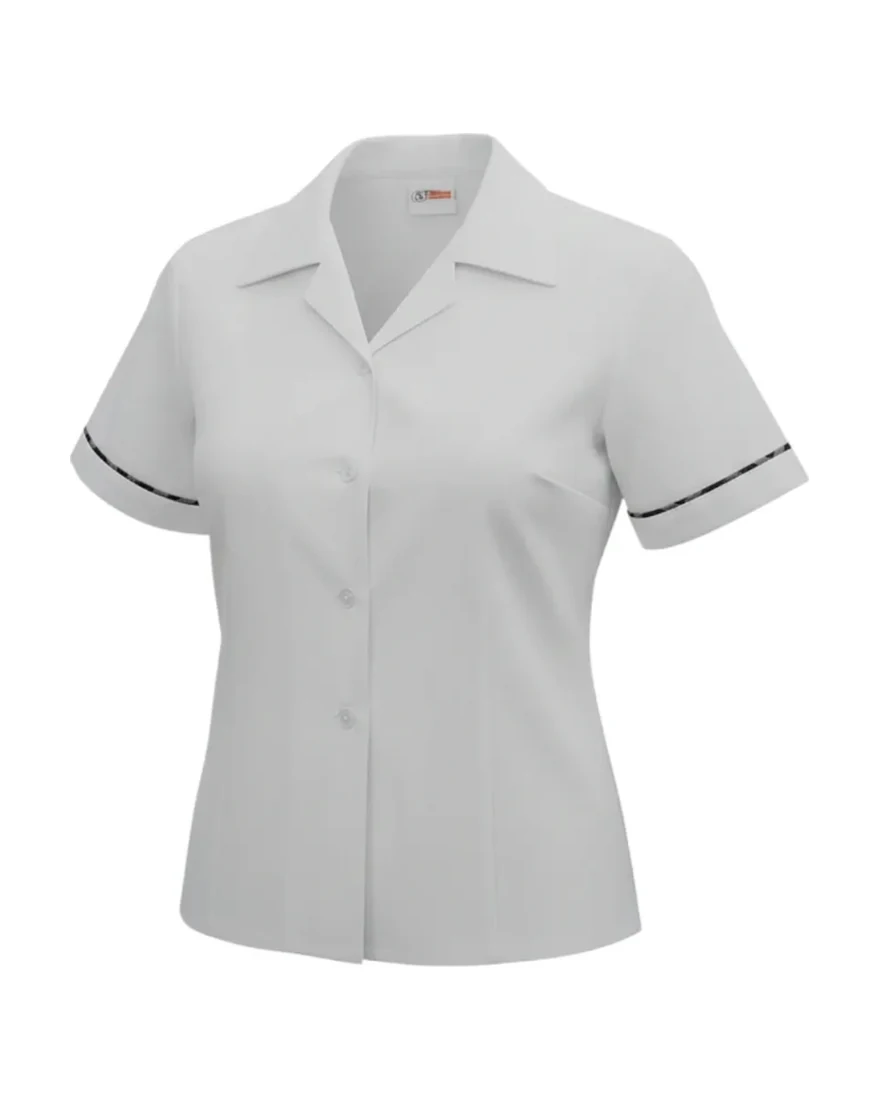
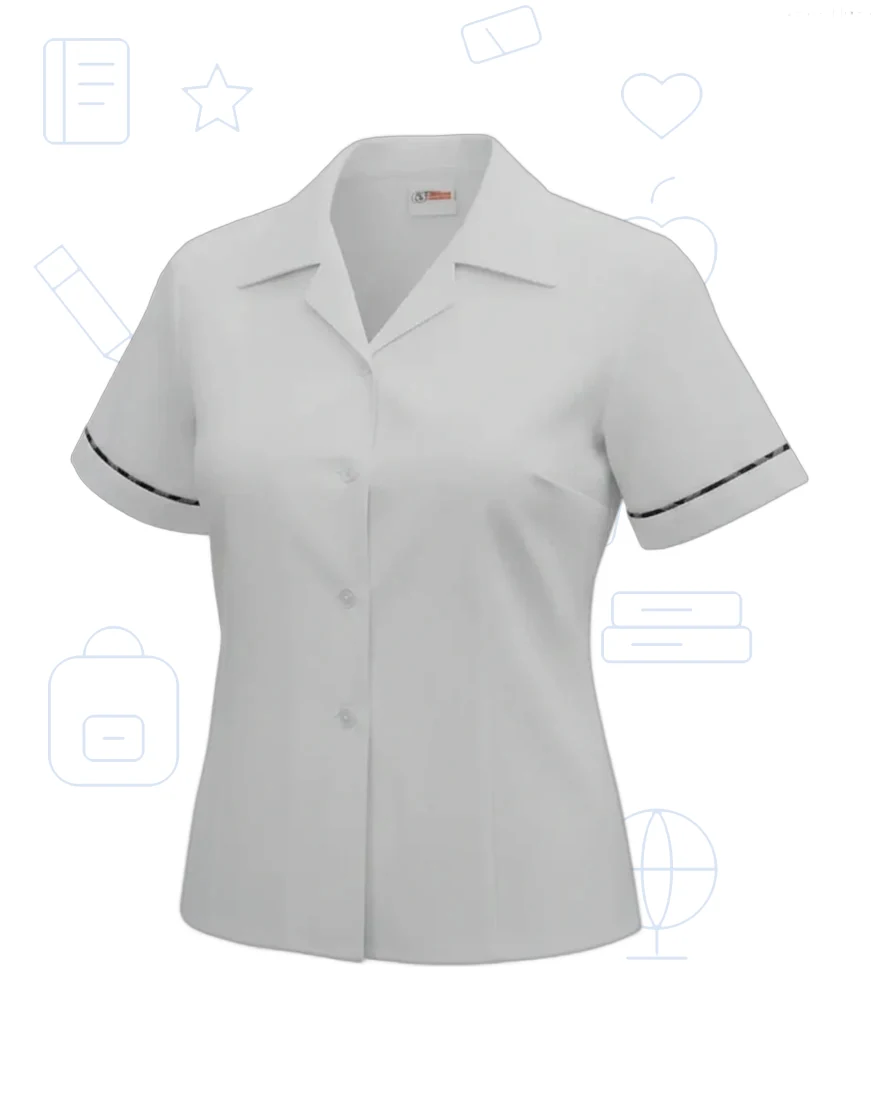
feat(fotos): mismo fondo de garabatos en las 8 fichas
La jardinera, la guayabera y el pantalon traian impreso el fondo de garabatos
escolares; las otras cinco eran blanco liso. En el grid se notaba: la blusa
quedaba como la unica blanca en una fila de tres con garabatos.

Ahora las cinco que faltaban (camibuso, las dos sudaderas, camisa de educacion
fisica y blusa) llevan el mismo fondo, recortando la prenda y componiendola
sobre el arte que el sitio ya usa en el hero y el pie
(src/components/school-doodles.tsx), rasterizado en scripts/fondo-garabatos.png.

Para que el fondo se vea igual al impreso, no parecido: medido en la banda
superior de la guayabera —la unica zona sin prenda encima— el original cubre
el 2.78% de los pixeles y el raster crudo el 5.02%, porque el trazo sale mas
grueso. Un MaxFilter lo adelgaza a 2.76%.

El script gana dos formas de recortar porque ninguna sirve para todo:
- rembg para prendas blancas sobre blanco (el camibuso), donde ningun umbral
  separa la tela del fondo;
- --recorte=plano, determinista, que solo vuelve transparente el blanco
  conectado con el borde de la foto y por eso no puede tocar la prenda.

Hizo falta: rembg se comio una manga entera de la camisa de educacion fisica y
griso la otra, asi que esa va con --recorte=plano. Su foto ademas traia un
recuadro gris de fondo (lum 248 contra 255 del borde) que el recorte plano si
elimina. Se revisaron las ocho una por una antes de subir.

El etiquetado de componentes reemplaza a ImageDraw.floodfill: sobre una imagen
[…]

diff --git a/scripts/normalizar-foto-producto.py b/scripts/normalizar-foto-producto.py
@@ -1,45 +1,129 @@
 #!/usr/bin/env python3
 """Normaliza una foto de producto al patron del catalogo.
 
-Todas las fichas comparten lienzo 880x1100 (4:5) sobre blanco puro, con la
-prenda centrada dentro de una caja de contenido del 84%. Sin esto una foto
-nueva entra al grid con otro tamano: la blusa llegaba ocupando el 97% del
-ancho (pegada a los bordes) y se veia enorme al lado de las demas.
+Todas las fichas comparten lienzo 880x1100 (4:5), la prenda centrada dentro de
+una caja de contenido del 84% y el fondo de garabatos escolares -el mismo arte
+que el sitio usa en el hero y el pie (src/components/school-doodles.tsx),
+rasterizado en scripts/fondo-garabatos.png-.
+
+Sin esto una foto nueva entra al grid desentonando: la blusa llego a 616x703 y
+ocupando el 97% del ancho, y las fotos sin garabatos se notaban al lado de la
+jardinera, la guayabera y el pantalon, que si los traen impresos.
 
 Uso:
     python scripts/normalizar-foto-producto.py ENTRADA SALIDA.webp
+    python scripts/normalizar-foto-producto.py ENTRADA SALIDA.webp --recorte=plano
+    python scripts/normalizar-foto-producto.py ENTRADA SALIDA.webp --sin-fondo
 
-Requiere Pillow (pip install pillow). Es una herramienta de assets, no del
-build: el sitio solo consume el .webp resultante.
+`--recorte=plano` usa el recorte determinista en vez de rembg: mas seguro con
+prendas de color sobre fondo blanco. `--sin-fondo` deja el blanco liso y solo corrige encuadre y tamano; sirve para
+una foto que ya trae los garabatos impresos.
+
+Requiere Pillow, numpy, scipy y rembg (pip install pillow numpy scipy rembg). Es una herramienta de
+assets, no del build: el sitio solo consume el .webp resultante.
 """
 
 import sys
+from pathlib import Path
 
-from PIL import Image
+from PIL import Image, ImageFilter
 
-# El lienzo que ya usan las 7 fichas existentes.
+# El lienzo que comparten todas las fichas.
 CANVAS = (880, 1100)
-# Cuanto del lienzo puede ocupar la prenda. 0.84 deja el aire que tienen
+# Cuanto del lienzo puede ocupar la prenda. 0.84 deja el aire que ya tenian
 # camibuso (82%) y camisa de educacion fisica (84%).
 CONTENT = 0.84
-# Un pixel cuenta como prenda si se separa del blanco mas que esto. El fondo
-# de estudio vive en 250-255, asi que 242 recorta sin comerse tela clara.
+# El raster sale con el trazo mas grueso que el impreso: medido en la banda
+# superior de la guayabera (la unica zona sin prenda encima), el original cubre
+# 2.78% de los pixeles y el raster crudo 5.02%. MaxFilter aclara los vecinos,
+# o sea adelgaza el trazo oscuro, y deja el raster en 2.76%: misma densidad.
+DOODLE_THINNING = 3
+DOODLE_FILE = Path(__file__).with_name("fondo-garabatos.png")
+# Un pixel cuenta como prenda si se separa del blanco mas que esto. Solo se usa
+# en el camino sin recorte (fotos que ya traen fondo impreso).
 WHITE_CUTOFF = 242
 
 
-def garment_bbox(image: Image.Image):
-    """Caja de la prenda, ignorando el fondo blanco de estudio."""
-    grey = image.convert("L")
-    mask = grey.point(lambda v: 255 if v < WHITE_CUTOFF else 0)
+def background() -> Image.Image:
+    """Lienzo con los garabatos al mismo grosor que los impresos."""
+    doodles = Image.open(DOODLE_FILE).convert("RGB").resize(CANVAS, Image.LANCZOS)
+    return doodles.filter(ImageFilter.MaxFilter(DOODLE_THINNING))
+
+
+def cutout_ia(image: Image.Image) -> Image.Image:
+    """Recorte con rembg. Necesario cuando la prenda es blanca sobre blanco (el
+    camibuso), donde ningun umbral la separa del fondo.
+
+    OJO: es un modelo, no una regla, y se equivoca. En la camisa de educacion
+    fisica se comio una manga entera. SIEMPRE revisar el resultado; si daña la
+    prenda, usar --recorte=plano."""
+    from rembg import new_session, remove
+
+    result = remove(image, session=new_session("isnet-general-use"))
+    bbox = result.getchannel("A").point(lambda v: 255 if v > 12 else 0).getbbox()
+    if bbox is None:
+        raise SystemExit("rembg no encontro prenda en la imagen.")
+    return result.crop(bbox)
+
+
+def cutout_plano(image: Image.Image, near_white: int = 240) -> Image.Image:
+    """Recorte determinista: solo se vuelve transparente el blanco CONECTADO
+    con el borde de la foto.
+
+    No puede tocar la prenda —lo de adentro nunca se alcanza desde el borde—,
+    asi que es el camino seguro para una foto de estudio sobre blanco. A cambio
+    no sirve si la prenda es blanca y su contorno se funde con el fondo.
+    """
+    import numpy as np
+    from scipy import ndimage
+
+    lum = np.asarray(image.convert("L"))
+    claro = lum >= near_white
+
+    # Se etiquetan las manchas claras y se descartan solo las que tocan el
+    # borde: eso es el fondo. Un blanco encerrado por la prenda (el ojal, el
+    # hueco entre las piernas de un pantalon) no toca el borde, asi que se
+    # conserva. Etiquetar es exacto y de una pasada; el floodfill de PIL sobre
+    # una imagen creada con fromarray no escribe nada.
+    etiquetas, cuantas = ndimage.label(claro)
+    if cuantas:
+        del_borde = set(etiquetas[0, :]) | set(etiquetas[-1, :])
+        del_borde |= set(etiquetas[:, 0]) | set(etiquetas[:, -1])
+        del_borde.discard(0)
+        fondo = np.isin(etiquetas, list(del_borde))
+    else:
+        fondo = np.zeros_like(claro)
+
+    alpha = Image.fromarray(np.where(fondo, 0, 255).astype("uint8"), "L")
+    # Medio pixel de difuminado: sin esto el contorno queda recortado a tijera
+    # sobre los garabatos.
+    alpha = alpha.filter(ImageFilter.GaussianBlur(0.6))
+
+    result = image.convert("RGBA")
+    result.putalpha(alpha)
+    bbox = alpha.point(lambda v: 255 if v > 12 else 0).getbbox()
+    if bbox is None:
+        raise SystemExit("No se encontro prenda: la imagen parece toda blanca.")
+    return result.crop(bbox)
+
+
+def flat_crop(image: Image.Image) -> Image.Image:
+    """Caja de la prenda contra fondo blanco, sin recortar el fondo."""
+    mask = image.convert("L").point(lambda v: 255 if v < WHITE_CUTOFF else 0)
     bbox = mask.getbbox()
     if bbox is None:
         raise SystemExit("No se encontro prenda: la imagen parece toda blanca.")
-    return bbox
+    return image.crop(bbox)
 
 
-def normalize(src: str, dst: str) -> None:
+def normalize(src: str, dst: str, doodles: bool, recorte: str) -> None:
     image = Image.open(src).convert("RGB")
-    garment = image.crop(garment_bbox(image))
+    if not doodles:
+        garment = flat_crop(image)
+    elif recorte == "plano":
+        garment = cutout_plano(image)
+    else:
+        garment = cutout_ia(image)
 
     max_w = int(CANVAS[0] * CONTENT)
     max_h = int(CANVAS[1] * CONTENT)
@@ -47,21 +131,29 @@ def normalize(src: str, dst: str) -> None:
     size = (max(1, round(garment.width * scale)), max(1, round(garment.height * scale)))
     garment = garment.resize(size, Image.LANCZOS)
 
-    canvas = Image.new("RGB", CANVAS, (255, 255, 255))
-    canvas.paste(
-        garment,
-        ((CANVAS[0] - size[0]) // 2, (CANVAS[1] - size[1]) // 2),
-    )
+    canvas = background() if doodles else Image.new("RGB", CANVAS, (255, 255, 255))
+    position = ((CANVAS[0] - size[0]) // 2, (CANVAS[1] - size[1]) // 2)
+    # El tercer argumento es la mascara: conserva los bordes suavizados del
+    # recorte en vez de dejar un contorno duro sobre los garabatos.
+    canvas.paste(garment, position, garment if garment.mode == "RGBA" else None)
     canvas.save(dst, "WEBP", quality=88, method=6)
 
     print(
         f"{src} -> {dst}\n"
         f"  prenda {size[0]}x{size[1]} sobre {CANVAS[0]}x{CANVAS[1]} "
         f"({100 * size[0] / CANVAS[0]:.1f}% ancho, {100 * size[1] / CANVAS[1]:.1f}% alto)"
+        f"{'' if doodles else '  [fondo blanco]'}"
     )
 
 
 if __name__ == "__main__":
-    if len(sys.argv) != 3:
+    flags = {a for a in sys.argv[1:] if a.startswith("--")}
+    args = [a for a in sys.argv[1:] if not a.startswith("--")]
+    if len(args) != 2 or flags - {"--sin-fondo", "--recorte=plano", "--recorte=ia"}:
         raise SystemExit(__doc__)
-    normalize(sys.argv[1], sys.argv[2])
+    normalize(
+        args[0],
+        args[1],
+        doodles="--sin-fondo" not in flags,
+        recorte="plano" if "--recorte=plano" in flags else "ia",
+    )
